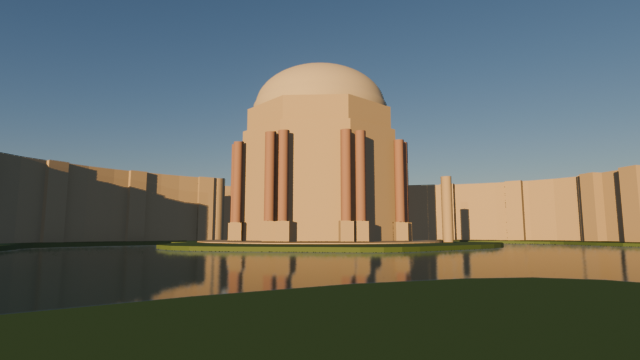
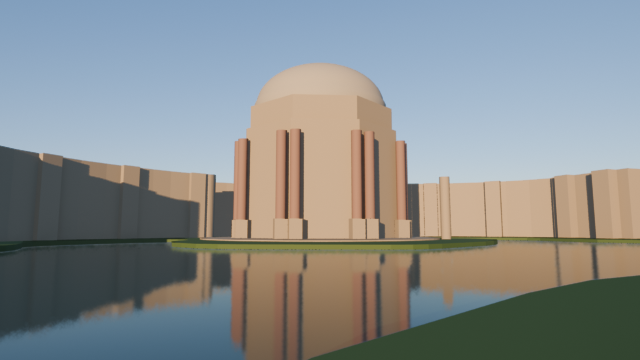
Lighting: final rig (vignette/bloom fixed, flythrough re-timed), r06 previews, evening alternate, lighting_notes.md
- Bloom threshold tied to exposure (0.9 / 2^EV = 13.5 scene units: only near-white pixels bloom);
  vignette ellipse 1.0 / blur 200 px -> 2-3 % corner falloff (cap 0.1); compositor on/off verified.
- Flythrough keys: hold 1.5 s, shore 11 m/s, water 12 m/s, colonnade 8.9 m/s, rotunda 9 m/s eased.
- docs/lighting_notes.md: all calibration numbers, sky-rotation convention proof, presets + timings,
  4K estimate, flythrough timing table, open issues and requests for the lead/materials/env/QA.

Claude-Session: https://claude.ai/code/session_01HGjB2WEbjN3pnt7HmChD9X

diff --git a/scripts/light_build.py b/scripts/light_build.py
@@ -45,7 +45,8 @@ EXPOSURE_BIAS = 0.5                # EV added to the grey-card calibration (see 
 LOOK = "AgX - Base Contrast"       # 'Punchy' crushes the sky-lit shade (A/B in lighting_notes)
 MIST = dict(start=40.0, depth=1500.0, falloff="LINEAR")   # mist pass 0 at 40 m -> 1 at 1540 m
 COMP = dict(haze_strength=0.55, haze_warmth=(1.06, 1.0, 0.88),   # haze colour = measured west-horizon radiance x warmth
-            bloom_threshold=6.0, bloom_strength=0.035, bloom_size=0.6, vignette=0.08)
+            bloom_threshold_display=0.9,   # scene-linear threshold = this / 2^exposure, i.e. only near-white pixels bloom
+            bloom_strength=0.05, bloom_size=0.6, vignette=0.08)
 
 COLLECTION = "LIGHT"
 WORLD_NAME = "WORLD_golden_hour"
@@ -140,7 +141,7 @@ def _set_menu(sock, value):
         print(f"[light_build] WARNING could not set menu socket {sock.name} = {value}: {e}")
 
 
-def build_compositor_group(haze_color):
+def build_compositor_group(haze_color, exposure):
     """COMP_golden_hour: Image + Mist + Depth in -> warm depth haze (geometry only), bloom, <=0.1 vignette -> Image."""
     for name in (GROUP_NAME, SCENE_TREE_NAME):
         g = bpy.data.node_groups.get(name)
@@ -153,7 +154,7 @@ def build_compositor_group(haze_color):
     it.new_socket("Depth", in_out="INPUT", socket_type="NodeSocketFloat")
     s = it.new_socket("Haze Color", in_out="INPUT", socket_type="NodeSocketColor"); s.default_value = (*haze_color, 1.0)
     s = it.new_socket("Haze Strength", in_out="INPUT", socket_type="NodeSocketFloat"); s.default_value = COMP["haze_strength"]; s.min_value = 0.0; s.max_value = 1.0
-    s = it.new_socket("Bloom Threshold", in_out="INPUT", socket_type="NodeSocketFloat"); s.default_value = COMP["bloom_threshold"]; s.min_value = 0.0
+    s = it.new_socket("Bloom Threshold", in_out="INPUT", socket_type="NodeSocketFloat"); s.default_value = COMP["bloom_threshold_display"] / (2.0 ** exposure); s.min_value = 0.0
     s = it.new_socket("Bloom Strength", in_out="INPUT", socket_type="NodeSocketFloat"); s.default_value = COMP["bloom_strength"]; s.min_value = 0.0; s.max_value = 1.0
     s = it.new_socket("Bloom Size", in_out="INPUT", socket_type="NodeSocketFloat"); s.default_value = COMP["bloom_size"]; s.min_value = 0.0; s.max_value = 1.0
     s = it.new_socket("Vignette", in_out="INPUT", socket_type="NodeSocketFloat"); s.default_value = COMP["vignette"]; s.min_value = 0.0; s.max_value = 0.1
@@ -182,10 +183,10 @@ def build_compositor_group(haze_color):
     glare.inputs["Saturation"].default_value = 0.9
     # --- vignette: 1 - v * (1 - blurred ellipse)
     mask = _new(g, "CompositorNodeEllipseMask", "vignette_mask", (-200, -450))
-    mask.inputs["Size"].default_value = (1.35, 1.35)
+    mask.inputs["Size"].default_value = (1.0, 1.0)        # ellipse touches the frame edges; corners outside, feathered
     blur = _new(g, "CompositorNodeBlur", "vignette_blur", (0, -450))
     _set_menu(blur.inputs["Type"], "Gaussian")
-    blur.inputs["Size"].default_value = (350.0, 350.0)
+    blur.inputs["Size"].default_value = (200.0, 200.0)
     blur.inputs["Extend Bounds"].default_value = False
     g.links.new(mask.outputs["Mask"], blur.inputs["Image"])
     inv = _new(g, "ShaderNodeMath", "one_minus_mask", (200, -450)); inv.operation = "SUBTRACT"; inv.inputs[0].default_value = 1.0
@@ -248,7 +249,7 @@ def build(moment="morning", calibrate=True, save=True):
     scene.world = world
     Lh = calib["sky"]["L_horizon_west"]
     haze_color = tuple(Lh[i] * COMP["haze_warmth"][i] for i in range(3))
-    group = build_compositor_group(haze_color)
+    group = build_compositor_group(haze_color, exposure)
     scene_tree = apply_scene_settings(scene, exposure, group)
     scene["light_moment"] = moment
     scene["light_exposure_ev"] = exposure
@@ -259,7 +260,7 @@ def build(moment="morning", calibrate=True, save=True):
 
     print(f"[light_build] LIGHT_sun energy {energy:.2f} W/m2 colour ({color[0]:.3f}, {color[1]:.3f}, {color[2]:.3f}) angle {SUN_ANGLE} rad")
     print(f"[light_build] exposure {calib['exposure_ev']:.2f} EV (18 % card) + bias {EXPOSURE_BIAS:+.2f} = {exposure:.2f} EV, look {LOOK}")
-    print(f"[light_build] haze colour (scene units) {tuple(round(c, 3) for c in haze_color)}")
+    print(f"[light_build] haze colour (scene units) {tuple(round(c, 3) for c in haze_color)}; bloom threshold {COMP['bloom_threshold_display'] / 2 ** exposure:.1f} scene units")
     if save:
         common.save_blend(common.ASSET_FILES["LIGHT"])
     print(f"[light_build] done in {time.time() - t0:.1f}s")

diff --git a/scripts/light_flythrough.py b/scripts/light_flythrough.py
@@ -42,14 +42,14 @@ WAYPOINTS = [
     ("rotunda_centre",  (0.0, 1.0, 2.5)),        # under the dome
 ]
 # key frames at which the camera reaches a waypoint (index into WAYPOINTS); eased in between, holds at both ends
-KEYS = [(1, 0), (49, 0), (240, 2), (400, 4), (600, 10), (700, 12), (FRAMES, 12)]
+KEYS = [(1, 0), (37, 0), (200, 2), (330, 4), (580, 10), (700, 12), (FRAMES, 12)]
 # look-at target keyframes: (frame, (x, y, z))
 TARGET_KEYS = [
     (1,   (0.0, 0.0, 17.0)),     # rotunda, hero framing
-    (240, (0.0, 0.0, 15.0)),     # still on the rotunda while gliding
-    (330, (72.0, 40.0, 12.0)),   # swing toward the colonnade end pylons
-    (400, (74.0, 22.0, 9.0)),    # look down the gallery
-    (600, (12.0, -8.0, 12.0)),   # toward the rotunda from inside the colonnade
+    (200, (0.0, 0.0, 15.0)),     # still on the rotunda while gliding along the shore
+    (280, (72.0, 40.0, 12.0)),   # swing toward the colonnade end pylons while crossing the water
+    (330, (74.0, 22.0, 9.0)),    # look down the gallery
+    (580, (12.0, -8.0, 12.0)),   # toward the rotunda from inside the colonnade
     (700, (0.0, 0.0, 30.0)),     # rise toward the dome
     (FRAMES, (0.0, 1.0, 46.0)),  # straight up at the dome apex (dome top at ~47.9 m)
 ]

diff --git a/docs/lighting_notes.md b/docs/lighting_notes.md
@@ -1,0 +1,186 @@
+# Lighting & Rendering notes (Phase 2)
+
+Lighting & Rendering specialist, 2026-09-07. Everything here is produced by `scripts/light_*.py` headless in
+Blender 5.2.1; every number below is either measured by `scripts/light_calibrate.py` (tiny Cycles renders read back as
+32-bit EXR) or printed by the build. Re-running `light_build.py` regenerates all of it.
+
+Deliverables: `assets/lighting.blend` (collection `LIGHT`: `LIGHT_sun`, `CAM_flythrough_path`, `CAM_flythrough_target`,
+`CAM_flythrough`; world `WORLD_golden_hour`; compositor node group `COMP_golden_hour`), `scripts/light_build.py`,
+`scripts/light_calibrate.py`, `scripts/light_presets.py`, `scripts/light_flythrough.py`, `scripts/light_preview.py`.
+
+## 1. The moment (single parameter)
+
+`light_build.MOMENTS` holds the date/time; `--moment evening` switches everything (sun aim, sky, lamp colour/energy,
+exposure) in one go. Solar position from the Sun Position extension's NOAA code
+(`sun_calc.get_sun_coordinates(local_hours, 37.8029, -122.4484, utc_zone, month, day, year)`, utc_zone = 8 for PST, 7 for PDT):
+
+| moment | local time | azimuth (cw from N) | elevation | lamp energy (sky units) | lamp colour (max = 1) | exposure (card) | exposure used |
+|---|---|---|---|---|---|---|---|
+| **morning (chosen)** | 2026-11-10 07:30 PST | **118.49°** | **7.36°** | **71.83** | **(1.000, 0.616, 0.269)** | −4.40 EV | **−3.90 EV** |
+| evening (alternate) | 2026-10-20 17:45 PDT | 250.86° | 6.94° | 68.78 | (1.000, 0.603, 0.251) | −4.32 EV | −3.82 EV |
+
+(Both rows use the final sky; the evening row is recomputed automatically by `--moment evening`.) The moment's
+values are stored as custom properties on `LIGHT_sun`
+(`date`, `time_local`, `utc_offset_h`, `latitude`, `longitude`, `azimuth_deg`, `elevation_deg`, `lamp_energy_W_m2`,
+`lamp_color`, `exposure_ev`, …) and on the world (`sky_*`, `sun_azimuth_deg`, `sky_sun_rotation_deg`).
+
+## 2. Sky-rotation convention (verified empirically)
+
+`scripts/light_calibrate.py -- --convention` renders an equirectangular panorama of the sky with the disc ON and
+compares the disc's centroid with emissive markers placed at true north (−X), east (+Y) and the zenith
+(`renders/previews/lighting/calibration/convention_check.json`).
+
+- Markers: north at column 360.0, east at 720.0 (of 1440 → azimuth increases to the right, 0.25°/px), zenith at row 718.5.
+- With the naive `sun_rotation = radians(azimuth)` the disc landed at **208.1°** for a requested 118.5° (Δ = +89.6°).
+- Therefore the node's `sun_rotation = 0` puts the sun at **world +Y** and increases **clockwise seen from above**
+  (Blender treats +Y as its north). Our +Y is east, so **`sun_rotation = azimuth − 90°`**
+  (`light_calibrate.sky_rotation_for_azimuth`). After the fix the disc centroid reads **118.47° / 7.46°** for
+  118.5° / 7.4° requested (Δ −0.03°, +0.06°).
+- Visual check: `renders/previews/lighting/calibration/convention_pole_shadow_and_disc.png` — a 12 m pole, the lamp
+  aimed with `common.aim_sun(118.5, 7.4)` and the sky's (enlarged, dimmed) disc ON: the disc glow sits over the pole
+  and the pole's shadow runs away from it.
+- **Consequence for others:** the lead's `lead_placeholder_blockout.py` used `sun_rotation = 0` (sun at +Y = east,
+  az 90°) — harmless there, but anyone building a sky must use `light_calibrate.make_sky_world` or the −90° rule.
+
+## 3. Radiometric calibration (why the numbers are what they are)
+
+All in "sky units" (the MULTIPLE_SCATTERING node's native output; it is physically scaled, hence the −4 EV exposure).
+
+1. **Cycles Sun lamp convention** — a white Lambertian card facing a Sun of energy 1 renders **0.31831 = 1/π**
+   (so energy E W/m² ⇒ radiance E/π). Uniform environment of radiance L ⇒ white card L. Both verified.
+2. **Sun-disc integration** (final sky: aerosol 1.0, ozone 2.0, altitude 5 m, sun_size 0.533°, disc ON vs OFF on a
+   card facing the sun): **E_sun = (71.83, 44.28, 19.30)**, luminance 48.3. ⇒ `LIGHT_sun.energy = 71.83`,
+   `color = (1.0, 0.616, 0.269)`, `angle = 0.0093 rad` (0.533°, same as the sky's `sun_size`). The world's disc is OFF;
+   the lamp is the disc. (With ozone 1.0 the same integral gave 91.1 / (1, 0.597, 0.206): ozone's Chappuis band
+   removes green/yellow at this air mass.)
+3. **Sky irradiances (disc OFF, strength 1):** on the sun-facing card (8.96, 8.99, 9.83); on a horizontal card
+   (3.08, 5.21, 9.56) — total horizontal with the sun (12.28, 10.88, 12.03). Radiances: zenith (0.34, 0.73, 1.70),
+   30° up looking south (0.83, 1.63, 3.31), west horizon (3.53, 4.23, 4.50), horizon toward the sun (53.3, 38.1, 21.1).
+4. **Sun : sky ratio.** The model's direct-normal / diffuse-horizontal luminance ratio at 7.4° elevation is
+   48.3 / 6.2 ≈ **7.8 (9.9 with ozone 1)**; clear-sky measurements at this elevation sit around 5, and refs 054/169 show
+   shade ≈ 3 stops under sunlit, not 4+. **`SKY_STRENGTH = 2.0`** (world Background strength for lighting) closes that
+   gap; the A/B sheet `renders/previews/lighting/sheet_r02_skystrength_1.0_1.7_2.5_punchy1.7.png` shows 1.0 (shade
+   too dark), 1.7, 2.5 (contrast flattened) and Punchy.
+5. **Visible-sky boost.** Even at ×2 the rendered sky was ~1 stop darker than ref 169 relative to the sunlit stone
+   (photo sky top 145/194/239 sRGB, horizon 217/246/254; render 109/138/163, 143/164/181). A Light Path node in the
+   world multiplies the background by **`SKY_CAMERA_BOOST = 1.6` for camera and glossy rays only**, so the sky and its
+   reflection in the lagoon brighten without lifting the shade further. Final hero samples: sky top **137/164/193**,
+   horizon **166/187/206**, sunlit attic 206/180/156 (photo 236/195/106 — the difference is the placeholder's flat,
+   unsaturated albedo, a materials matter).
+6. **Sky colour.** Aerosol density hardly changes the sky the hero camera sees (looking west, away from the sun:
+   top pixel 126/152/176 for aerosol 0.3 … 2.0) but warms the sun-side horizon; kept at **1.0** (the sweep sheet
+   `sheet_r01_skysweep_aerosol_0.5_1_2_3.png` shows 2–3 going grey). **Ozone 2.0** deepens the blue at low sun
+   (B/R 1.59 vs the photo's 1.65; ozone 1.0 gave 1.39; 3.0 gave 1.82 but too dark).
+7. **Exposure.** 18 % grey card facing the sun under lamp + sky (disc OFF, strength 2): scene-linear
+   (5.14, 3.57, 2.23), luminance 3.80 ⇒ **exposure = log2(0.18 / 3.80) = −4.40 EV**; through AgX Base Contrast the
+   card displays as sRGB (0.526, 0.440, 0.353) — a warm middle grey. **`EXPOSURE_BIAS = +0.5 EV`** on top (−3.90 EV
+   used): ref 169's sunlit stone sits about half a stop above a sun-facing card, and the bias keeps the sky-lit
+   shade readable. Re-check on the real materials: the target for the sunlit attic is ≈ 236/195/106 sRGB.
+8. **Look: `AgX - Base Contrast`.** Punchy (same exposure) gives the photo's saturation (sky 77/108/135, stone
+   193/158/118) but darkens the shade about 0.4 stop and starts crushing the arch soffits — against the brief's
+   "no crushed blacks". Base Contrast keeps the gradient; its cost is highlight desaturation (the sky's B/R drops
+   from 1.59 to 1.41 as it brightens). Switch = `LOOK` in `light_build.py` / `light_presets.py`; A/B panel in sheet r02.
+9. **No fill light.** With the ×2 sky and Cycles bounces (`diffuse_bounces 3`) the shade is sky-blue-grey lifted by
+   warm bounce; a fill lamp would fight the physically-derived ratio. Revisit only if the QA round on real materials
+   shows the north faces reading black.
+
+## 4. Atmosphere: `COMP_golden_hour`
+
+Node group (inputs: Image, Mist, Depth, Haze Color, Haze Strength, Bloom Threshold, Bloom Strength, Bloom Size,
+Vignette; output: Image). Wired by `light_presets.build_scene_compositor(scene, group)` into a LOCAL scene tree
+(`COMP_scene_golden_hour`: Render Layers → group → Group Output) — a scene tree must be local because a linked one
+carries a Render Layers node bound to lighting.blend's own scene and Blender then refuses to render ("no camera").
+
+- **Haze** = mix toward `Haze Color` by `Mist × Haze Strength × is_geometry` (depth < 4000 m; the sky keeps the sky
+  model's own aerial perspective). World mist: start 40 m, depth 1500 m, linear. Haze colour = measured west-horizon
+  radiance × (1.06, 1.0, 0.88) = **(3.74, 4.23, 3.96)** scene units (pale, faintly warm); strength **0.55** ⇒ 3 % at
+  120 m, 6 % at 200 m, 17 % at 500 m. Deliberately subtle: ref 169's colonnades at ~150 m are only faintly veiled.
+- **Bloom** (Glare node, type Bloom, quality High): threshold = 0.9 / 2^exposure = **13.5 scene units** (only
+  near-white pixels: sun-side horizon glow, water glints), strength 0.05, size 0.6, smoothness 0.2.
+- **Vignette** = Ellipse mask (size 1.0) → Gaussian blur 200 px → `1 − 0.08·(1 − mask)`; measured 2–3 % darker in the
+  extreme corners (0.975 / 0.983 of the uncomposited value), zero at the edge midpoints — well under the 0.1 cap.
+- Verified active: hero with compositing OFF vs ON differs by 0.9/255 mean (subtle by design); with the inputs
+  exaggerated (haze 1.0, bloom 0.5, vignette 0.1) by 10/255.
+- **No world volume.** The compositor haze costs nothing measurable; a volume would add ≥ 30 % to Cycles at 4K for a
+  site that is < 300 m deep. Mist pass + depth pass are enabled on the view layer by `apply_look`.
+
+## 5. Render presets (`scripts/light_presets.py`) and timings
+
+Timing test (`light_presets.py -- --time`, placeholder blockout, hero camera, 1280×720, M2 10-core Metal;
+`renders/previews/lighting/timing/timing.json`):
+
+| preset | samples | 1280×720 | extrapolated 3840×2160 (×9 pixels) |
+|---|---|---|---|
+| `apply_viewport_eevee` | 16 TAA | 0.47 s | — |
+| `apply_preview_eevee` | 32 TAA, raytracing, fast GI | 1.51 s (1.24 s warm) | — |
+| `apply_final_cycles` | 256, adaptive 0.01 | 28.4 s | 4.3 min |
+| `apply_final_cycles` | **768**, adaptive 0.01 | 65.2 s | **9.8 min** |
+
+The placeholder is trivial (flat materials, no trees); a textured scene with leaf cards and displaced ornament costs
+5–15× more per sample, which still lands a 4K hero at 768 spp inside the 2 h budget (9.8 min × 12 ≈ 2 h). Final
+settings: OIDN GPU denoise (albedo+normal, accurate prefilter, high quality), adaptive sampling threshold 0.01 / min 64,
+light tree, bounces 8 (diffuse 3, glossy 4, transmission 4, transparent 16), filter glossy 0.5, clamp indirect 10,
+no caustics, persistent data, 16-bit PNG. `FINAL_TIME_LIMIT_S` (0) is the hard stop the lead can set per frame
+(6600 s keeps any frame under the budget). **Before the 4K hero, rerun `--time` on master.blend and scale
+`FINAL_SAMPLES` from the measured 1280×720 time × 9.**
+
+Preview Eevee: 32 TAA, screen-space raytracing (½ res, denoised) for the lagoon reflections, fast GI (2 rays, 60 m),
+shadow rays 2 / steps 4, overscan 3 %. Viewport Eevee: shadows on (1 ray / 2 steps, ½ res), raytracing/fast GI/volumetric
+shadows off. QA set at 1280×720 renders in 1.3–3.6 s per camera after shader compile.
+
+`apply_look(scene)` = AgX + look + exposure read from `LIGHT_sun["exposure_ev"]` + mist/depth passes + compositor.
+`apply_rig(scene)` = link `LIGHT` + `WORLD_golden_hour` from `assets/lighting.blend`, then `apply_look`.
+
+## 6. Flythrough (`scripts/light_flythrough.py`)
+
+`CAM_flythrough_path` (bezier, 13 auto-handle control points, 278.1 m), `CAM_flythrough_target` (keyframed empty),
+`CAM_flythrough` (24 mm, Follow Path fixed-position with keyframed `offset_factor`, Track To the target; all keys
+Bezier / ease-in-out / auto-clamped). 720 frames @ 24 fps = 30 s, mean 9.3 m/s. Offset keys are arc-length fractions
+(the evaluated curve is sampled, so the Follow Path parameter is uniform in distance).
+
+| frame | t (s) | waypoint | arc | position (X, Y, z) | look-at |
+|---|---|---|---|---|---|
+| 1–37 | 0.0–1.5 | hero_start (hold) | 0.000 | (−16.0, 113.9, 1.0) = CAM_qa_01 | rotunda (0, 0, 17) |
+| 200 | 8.3 | shore_se | 0.270 | (58.0, 112.0, 3.0) | rotunda (0, 0, 15) |
+| 280 | 11.6 | (crossing the water) | — | — | colonnade end pylons (72, 40, 12) |
+| 330 | 13.7 | colonnade_end | 0.506 | (79.0, 54.0, 6.0) | down the gallery (74, 22, 9) |
+| 580 | 24.1 | colonnade_out | 0.839 | (37.0, −22.5, 5.5) | rotunda (12, −8, 12) |
+| 700 | 29.1 | rotunda_centre | 1.000 | (0.0, 1.0, 2.5) | dome (0, 0, 30) |
+| 720 | 30.0 | rotunda_centre (hold) | 1.000 | (0.0, 1.0, 2.5) | dome apex (0, 1, 46) |
+
+Segment speeds: shore 11.1 m/s, water crossing 12.1 m/s, colonnade 8.9 m/s, rotunda approach 9.0 m/s (eased to a stop).
+Test frames: `renders/previews/lighting/flythrough_test_{0001,0145,0289,0432,0576,0720}.png` (640×360 Eevee) and
+`sheet_flythrough_test.png`. Frames 432 and 576 are grey because the placeholder colonnade is a solid extruded
+footprint — the camera is inside it, on the real gallery axis; frame 720 looks up into the placeholder dome.
+Waypoints live in `WAYPOINTS`; the gallery axis was taken from the OSM roof polygon (`roof306`), so once ARCH exists
+the column positions may need the entry point (`colonnade_in`) nudged.
+
+## 7. Previews and comparisons
+
+- `renders/previews/lighting/*_r06.png`: six QA cameras (Eevee preview preset) + Cycles 128 spp hero, placeholder
+  blockout + this rig. `sheet_r06_eevee_qa_cams.png`, `sheet_r06_morning_vs_evening_cycles.png`.
+- `renders/qa_comparisons/lighting_r0{1,3,4,5,6}_hero_cycles_vs_ref169.png`: render | ref 169 | 50 % blend for each round.
+- `renders/previews/lighting/*_cycles_evening2.png`: the evening alternate (`light_preview.py -- --moment evening`,
+  rig rebuilt in memory so the asset is untouched): rotunda backlit from the WSW, glow left of the dome (ref 035 mood).
+- Checklist against ref 169 (round 6, placeholder geometry): low warm sun ✔ (east/south-east faces peach, north faces
+  sky-lit blue-grey, not black); long soft-edged shadows ✔ (0.533° disc; the lead's pier shadows stretch across the
+  platform); sky-lit shade ✔; warm haze on distant elements — present but subtle (see §4, tune `Haze Strength`);
+  water reflecting a bright warm sky ✔ in the placeholder mirror (real water = ENV/materials); no crushed blacks ✔
+  (darkest shade in the hero ≈ 60/255); no blown highlights ✔ (brightest stone ≈ 210/255, sky horizon 206/255).
+
+## 8. Open issues and requests
+
+1. **Lead / `build_master.py`:** after linking, call `light_presets.apply_look(scene)` (or `apply_rig`) — master
+   currently links `LIGHT` + the world but leaves exposure at 0 EV and no compositor, which renders ~4 stops over.
+2. **Materials:** albedo/saturation of the sunlit stone is the biggest remaining gap to ref 169 (206/180/156 vs
+   236/195/106); the rig is calibrated to a physical 18 % card, so please do not compensate by brightening albedos —
+   re-check `EXPOSURE_BIAS` with me once `MAT_concrete_ochre` exists.
+3. **ENV/water:** the sky boost applies to glossy rays, so the lagoon reflection will read as bright as the sky
+   (ref 169 shows it ~0.8 stop darker: murk + Fresnel). If the water material is not dark enough, lower
+   `SKY_CAMERA_BOOST` or make the boost camera-only (drop the `Is Glossy Ray` add in `make_sky_world`).
+4. **QA:** A/B `AgX - Punchy` on the real materials (one line in `light_presets.LOOK`); it may win once textures carry
+   the saturation.
+5. **Flythrough:** re-check `colonnade_in`/`colonnade_out` against ARCH's column positions; 24 mm may need 28 mm
+   inside the gallery.
+6. The placeholder's own `PLACEHOLDER_LIGHT` collection (sun + world) is excluded in my previews; master must not
+   link it once `LIGHT` exists.
